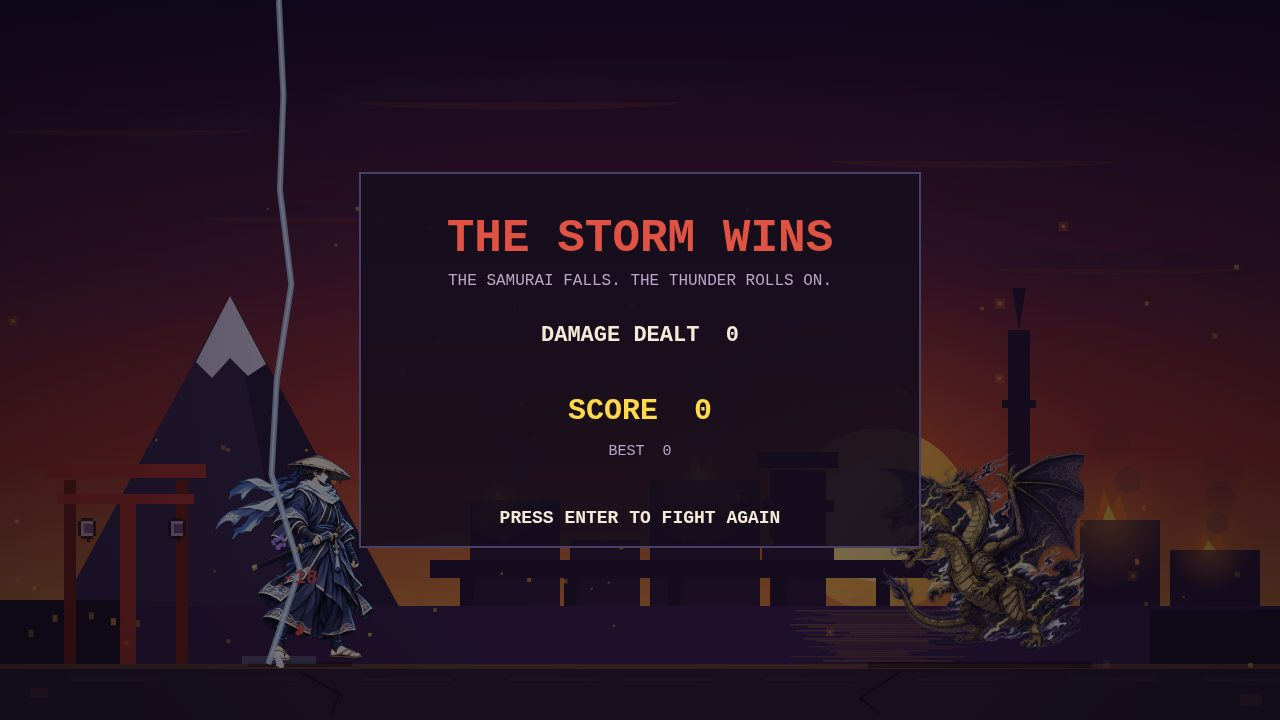
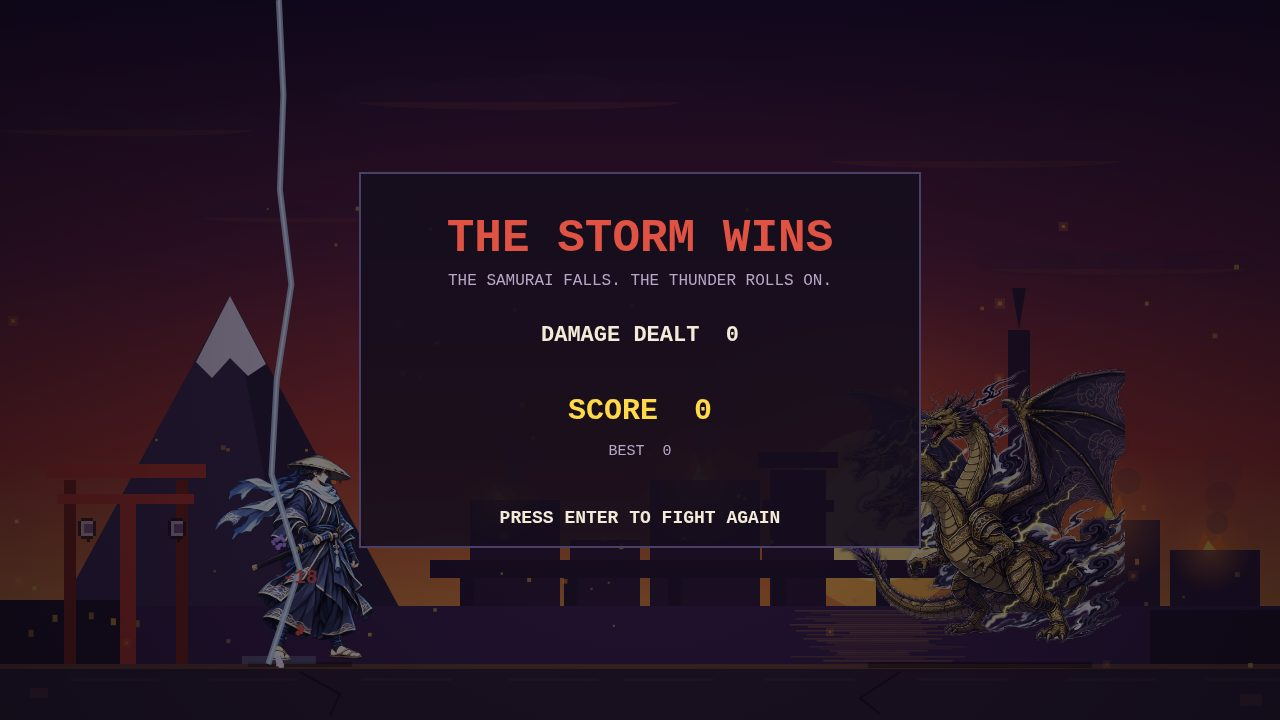
Make the kaiju bigger: draw height 230 -> 320
- The boss was barely taller than the hero (230 vs 200) so it read as
  just another fighter, not a boss. At 320 it towers over the samurai
  and the raster art is actually visible in the fight shot.
- Visual only: hitbox, damage, balance unchanged (blue 6/6, red 6/6).
  Determinism byte-identical, gate exit 0. Screenshots re-taken.

Changed region(s): [[0.6562, 0.5194, 0.875, 0.8861]]

diff --git a/game/src/render.js b/game/src/render.js
@@ -407,12 +407,12 @@ export function createRenderer(canvas, assets) {
     const bob = Math.sin(elapsed * 2.2) * 3;
     const bottomY = FIELD.groundY + drop - rear + bob;
     // The raster kaiju when it loaded, the code-drawn pixel sprite
-    // otherwise. The raster is drawn taller than the hero (it is a boss);
-    // the pixel sprite keeps its old 280x200 frame.
+    // otherwise. The raster is drawn much taller than the hero (it is a
+    // boss); the pixel sprite keeps its old 280x200 frame.
     const kaijuKey = { fire: 'kaijuFire', sea: 'kaijuSea', dragon: 'kaijuDragon' }[state.kaiju || 'fire'];
     const kaijuImg = assets && assets[kaijuKey];
     if (kaijuImg) {
-      drawRaster(kaijuImg, k.x, bottomY, 230, {
+      drawRaster(kaijuImg, k.x, bottomY, 320, {
         filter: k.flash > 0 ? 'brightness(1.7) saturate(0.6)' : '',
       });
     } else {
